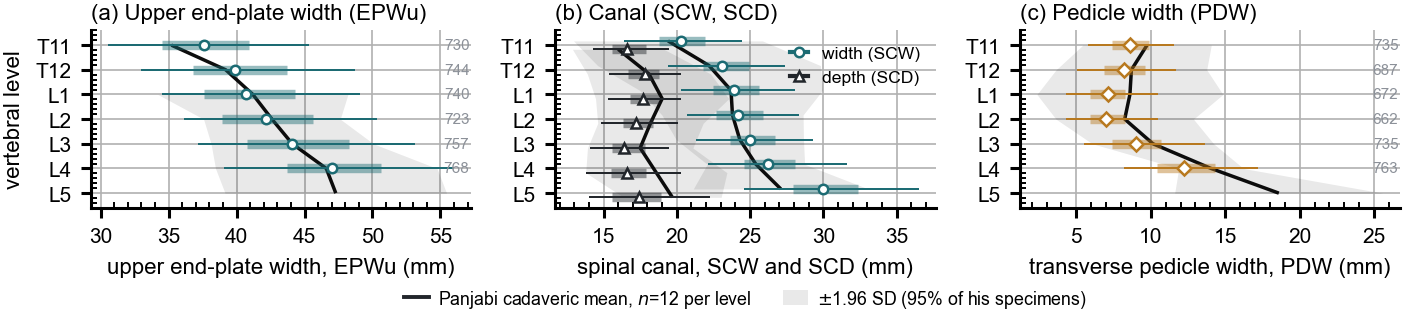
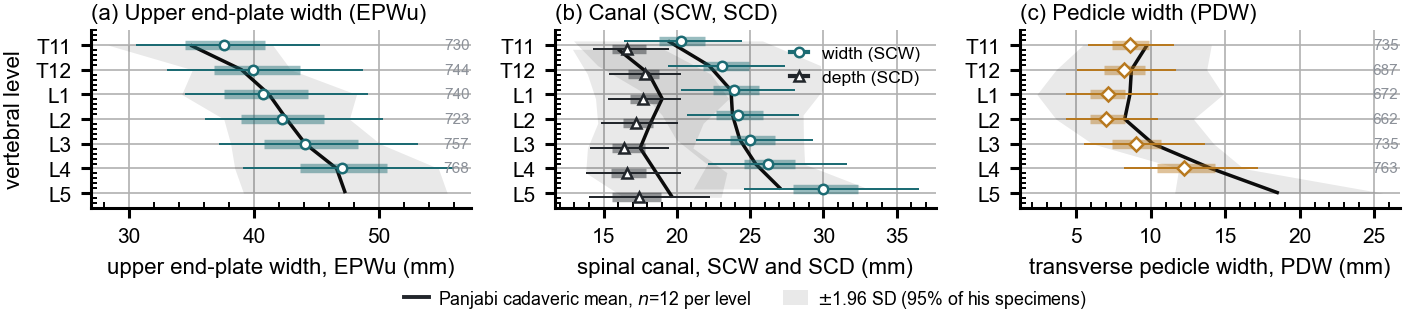
Panjabi 1991 Table 3 read from the complete paper: T11-T12 end-plate width and posterior body height replace the digitised values

diff --git a/morphometrics/make_reference_table.py b/morphometrics/make_reference_table.py
@@ -185,10 +185,9 @@ DISC = [
 # so the thoracic and lumbar papers are two reports of one series and their levels join
 # into a single curve rather than two references. Read from the tables, not from a figure.
 #
-# END-PLATE WIDTH IS ABSENT ON PURPOSE. Its thoracic values live in that paper's Table 3,
-# on page 892, which is missing from the scan we hold -- the copy runs 891 then 893. The
-# figures give end-plate width as a curve (Fig. 4A) and reading values off an axis would
-# put graph estimates into a published comparison, so T11 and T12 have no end-plate row.
+# END-PLATE WIDTH AND POSTERIOR BODY HEIGHT COME FROM TABLE 3, p. 892. Every scan of the
+# paper served from Ovid skips that page; the values below were read from a complete copy
+# obtained by interlibrary loan on 2026-09-13 (PANJABI_1991_FULL_fixed.pdf, page 7).
 THORACIC_LEVELS = ["T11", "T12"]
 THORACIC = {
     "canal_w":  ([19.4, 22.2], [0.95, 1.12], "Table 4, p. 893 (SCW)"),
@@ -197,31 +196,11 @@ THORACIC = {
     #   T11  PDWr 8.8 +- 0.43, PDWl 10.7 +- 0.84
     #   T12  PDWr 8.8 +- 0.81, PDWl  8.6 +- 0.68
     "pedicle":  ([9.75, 8.70], [0.635, 0.745], "Table 5, p. 894 (mean of PDWr and PDWl)"),
-    # END-PLATE WIDTH IS DIGITISED FROM THE PAPER'S OWN FIGURE, NOT READ FROM A TABLE.
-    # Table 3 holds the end-plate dimensions and sits on page 892, which is absent from
-    # every scan of this paper we have been able to obtain -- the two copies on hand are
-    # byte-identical and both skip it (p. 891 is followed by p. 893). Interlibrary loan is
-    # outstanding; when the table arrives these two values should be replaced by it.
-    #
-    # Until then they come from Figure 4A on p. 896, which plots EPWu, EPWl, EPDu and EPDl
-    # against T1-T12 -- the authors' own figure of their own data, not a textbook redraw.
-    # Benzel's Fig. 1.1 was considered and rejected: it pools four sources (Berry, both
-    # Panjabi papers and White & Panjabi), plots BODY DIAMETER rather than end-plate width,
-    # has no T11 tick, and the chapter states its figures may contain extrapolated data.
-    #
-    # Digitised by locating the open-square marker interiors against the axis ticks
-    # (44.0 px per mm, residual-free over 10-50). Four checks agree:
-    #   T1 24.54 -> T12 39.20 is a 59.7% increase, inside the 55% (EPWl) to 73% (EPDu)
-    #     range the paper states for the four dimensions;
-    #   the largest steps are T10->T11 (+4.60) and T11->T12 (+3.96) against ~1.3 for every
-    #     earlier level, matching "the increase in width was greatest for the two
-    #     distal-most vertebrae (T11 and T12)" on p. 890;
-    #   T12 39.2 runs continuously into L1 41.2 from the 1992 lumbar paper;
-    #   EPWl(T12) 42.3 exceeds EPWu(L1) 41.2, as the text requires.
-    # No SEM is recoverable from the figure, so the dispersion is left empty rather than
-    # invented.
-    "endplate": ([35.2, 39.2], [None, None],
-                 "Figure 4A, p. 896 (EPWu, digitised; Table 3 p. 892 missing from all scans)"),
+    # Table 3, p. 892: EPWu (upper end-plate width) and VBHp (posterior body height), mean
+    # over the upper SEM row. The values digitised earlier from Figure 4A (35.2, 39.2) were
+    # within 0.3 mm of the table; they are replaced, not kept.
+    "endplate": ([34.9, 39.0], [0.97, 0.58], "Table 3, p. 892 (EPWu)"),
+    "h_post":   ([21.3, 22.7], [0.71, 1.04], "Table 3, p. 892 (VBHp)"),
 }
 PANJABI_1991 = ("cadaveric dry bone", "12", "3-D digitiser", "SEM", "primary",
                 "Panjabi MM et al. Spine 1991;16(8):888-901 (same 12 spines as the 1992 paper)")

diff --git a/paper/mpda/figure_captions.tex b/paper/mpda/figure_captions.tex
@@ -8,7 +8,7 @@
 
 \noindent\textbf{Figure 4.} Spinopelvic measures against standing reference bands (mean $\pm$ SD)~\cite{vialle2005}.
 
-\noindent\textbf{Figure 5.} Morphometry by level, T11--L5: median, interquartile range, 5th--95th percentile, $n$ at right. (a) End-plate width EPWu. (b) Canal width SCW and depth SCD. (c) Pedicle width PDW, both sides averaged. L5 is withheld in (a) and (c); see text. Reference is Panjabi's cadaveric series\cite{panjabi1991,panjabi1992}, keyed in (a), its SD recovered from the reported SEM; T11--T12 EPWu is digitised from his Figure 4A.
+\noindent\textbf{Figure 5.} Morphometry by level, T11--L5: median, interquartile range, 5th--95th percentile, $n$ at right. (a) End-plate width EPWu. (b) Canal width SCW and depth SCD. (c) Pedicle width PDW, both sides averaged. L5 is withheld in (a) and (c); see text. Reference is Panjabi's cadaveric series\cite{panjabi1991,panjabi1992}, keyed in (a), its SD recovered from the reported SEM.
 
 \noindent\textbf{Figure 6.} Records carrying each vertebral level, cranial to caudal. Counts per identifier in Table~S1.
 

diff --git a/paper/mpda/main.tex b/paper/mpda/main.tex
@@ -893,7 +893,7 @@ enumeration, a model trained on them is not learning the convention that fails.
 percentile, $n$ at right. (a) End-plate width EPWu. (b) Canal width SCW and depth SCD.
 (c) Pedicle width PDW, both sides averaged. L5 is withheld in (a) and (c); see text.
 Reference is Panjabi's cadaveric series\cite{panjabi1991,panjabi1992}, keyed in (a), its
-SD recovered from the reported SEM; T11--T12 EPWu is digitised from his Figure 4A.}
+SD recovered from the reported SEM.}
 \label{fig:levelatlas}
 \end{figure*}
 
